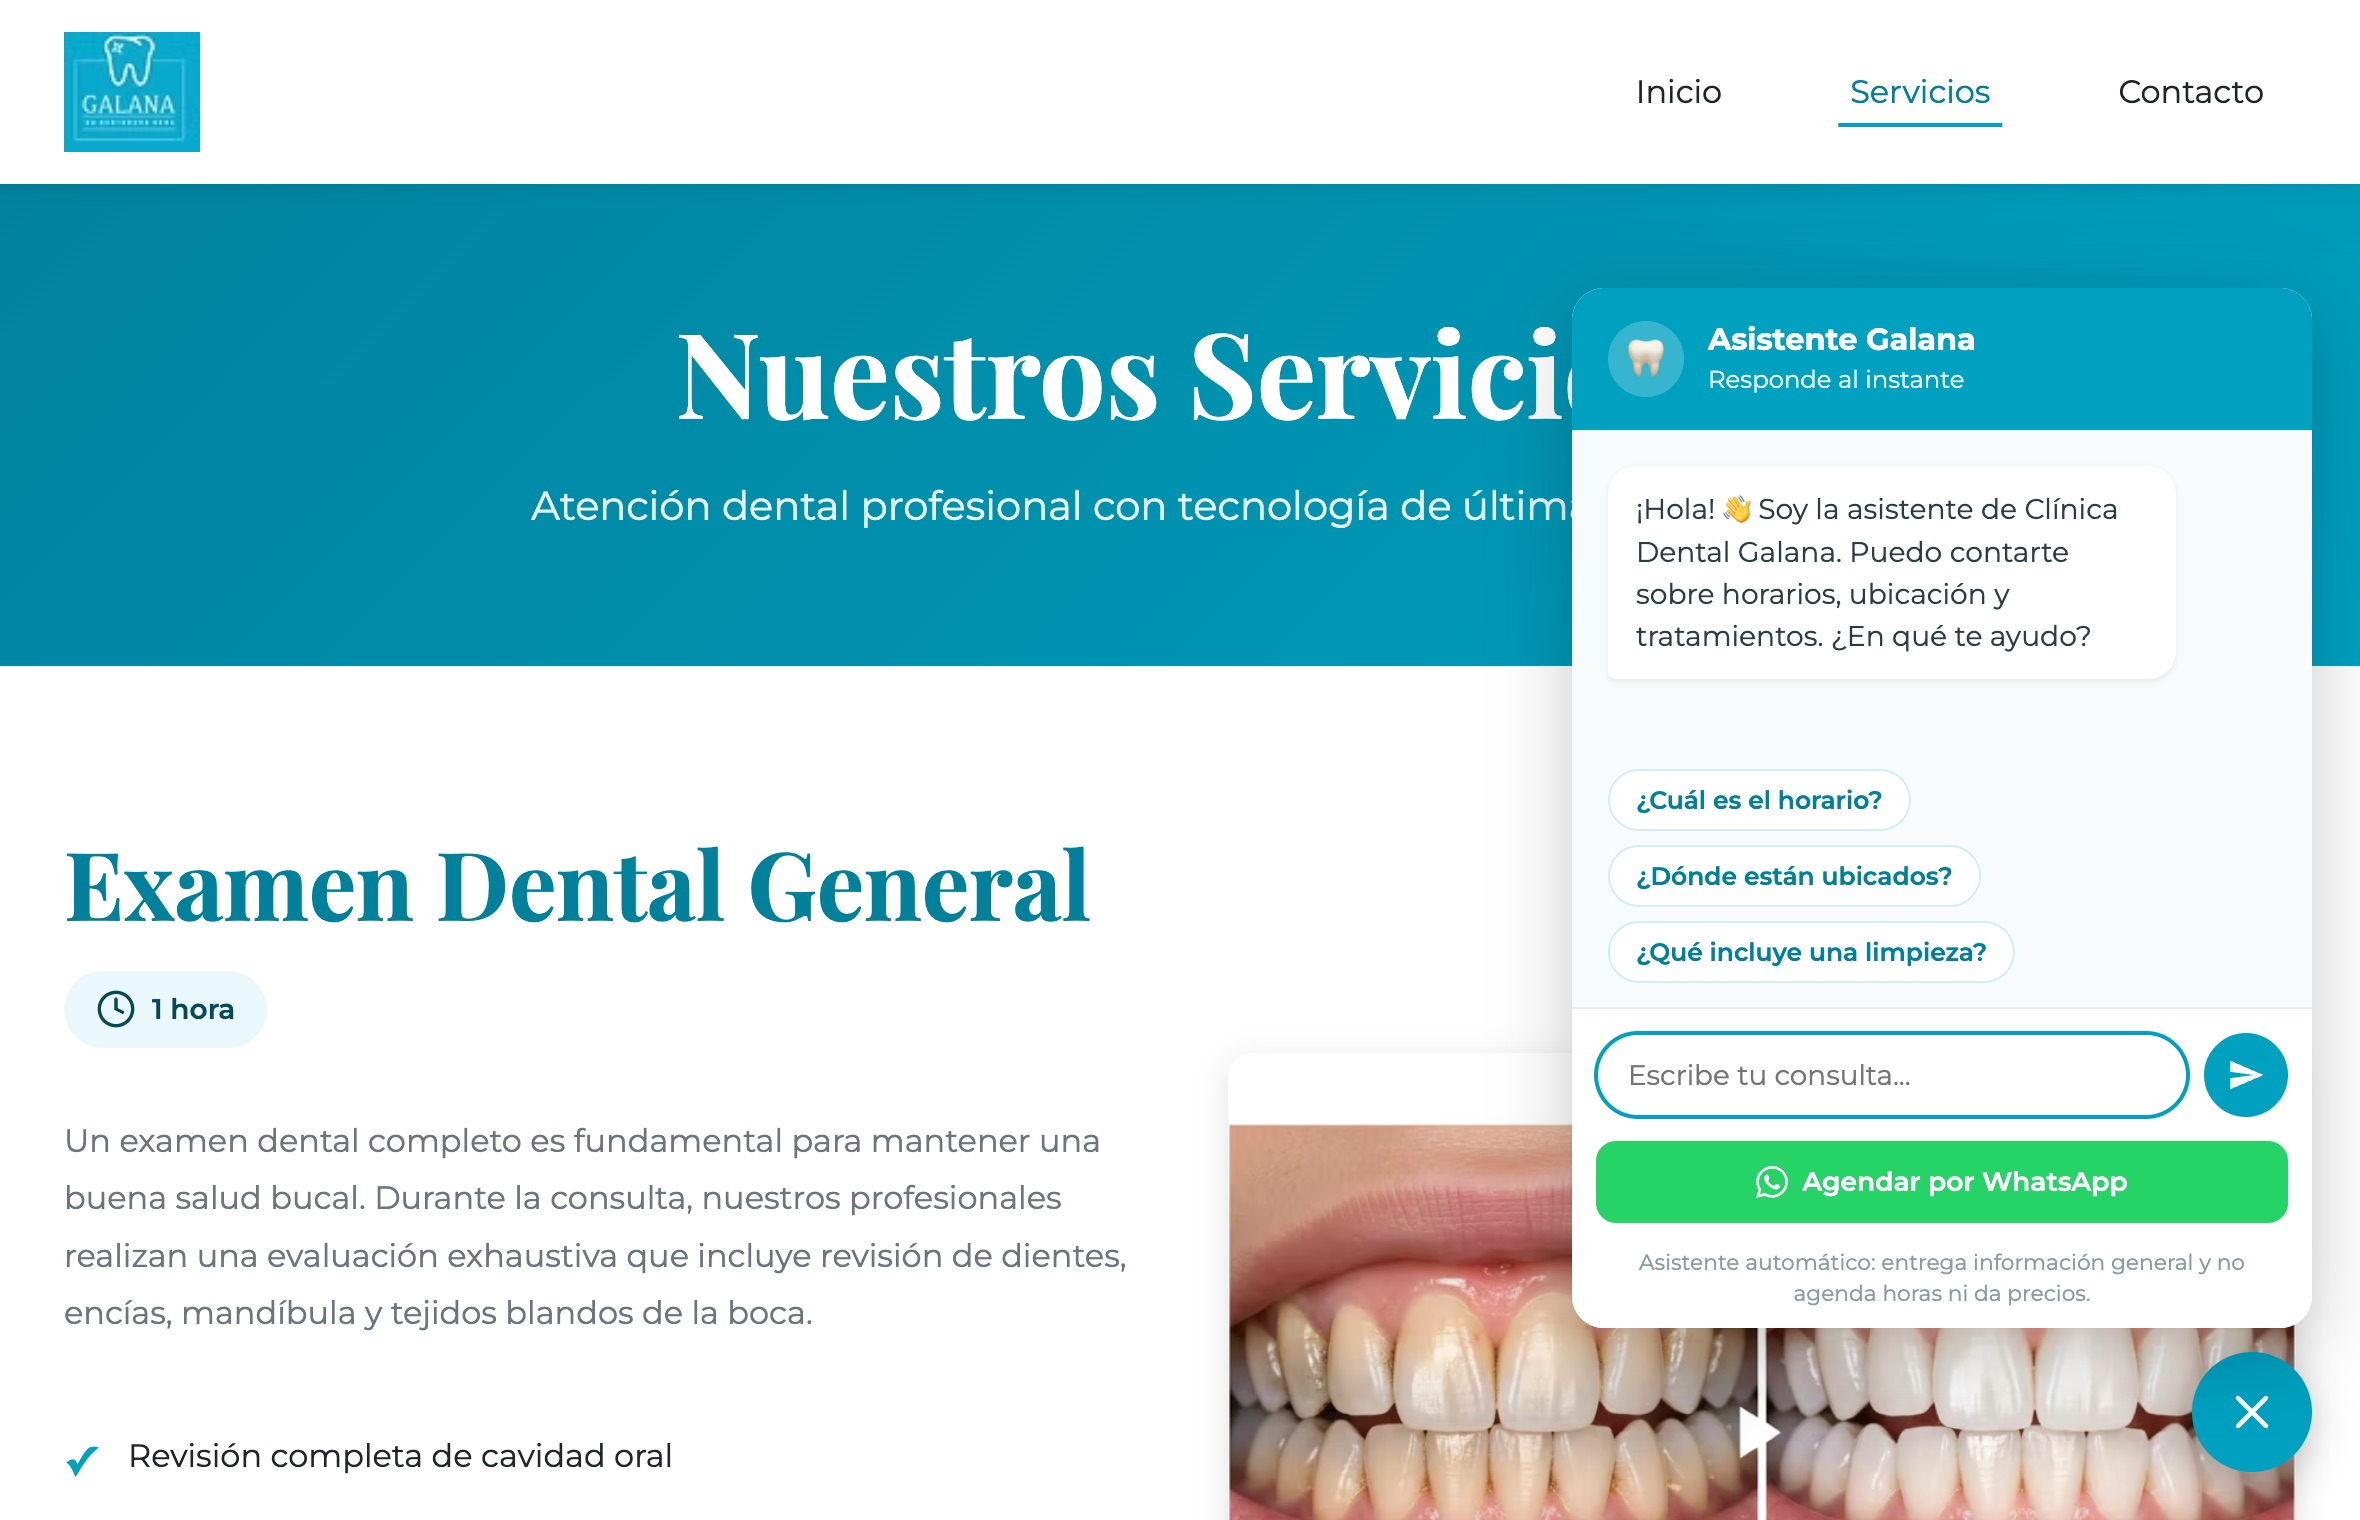
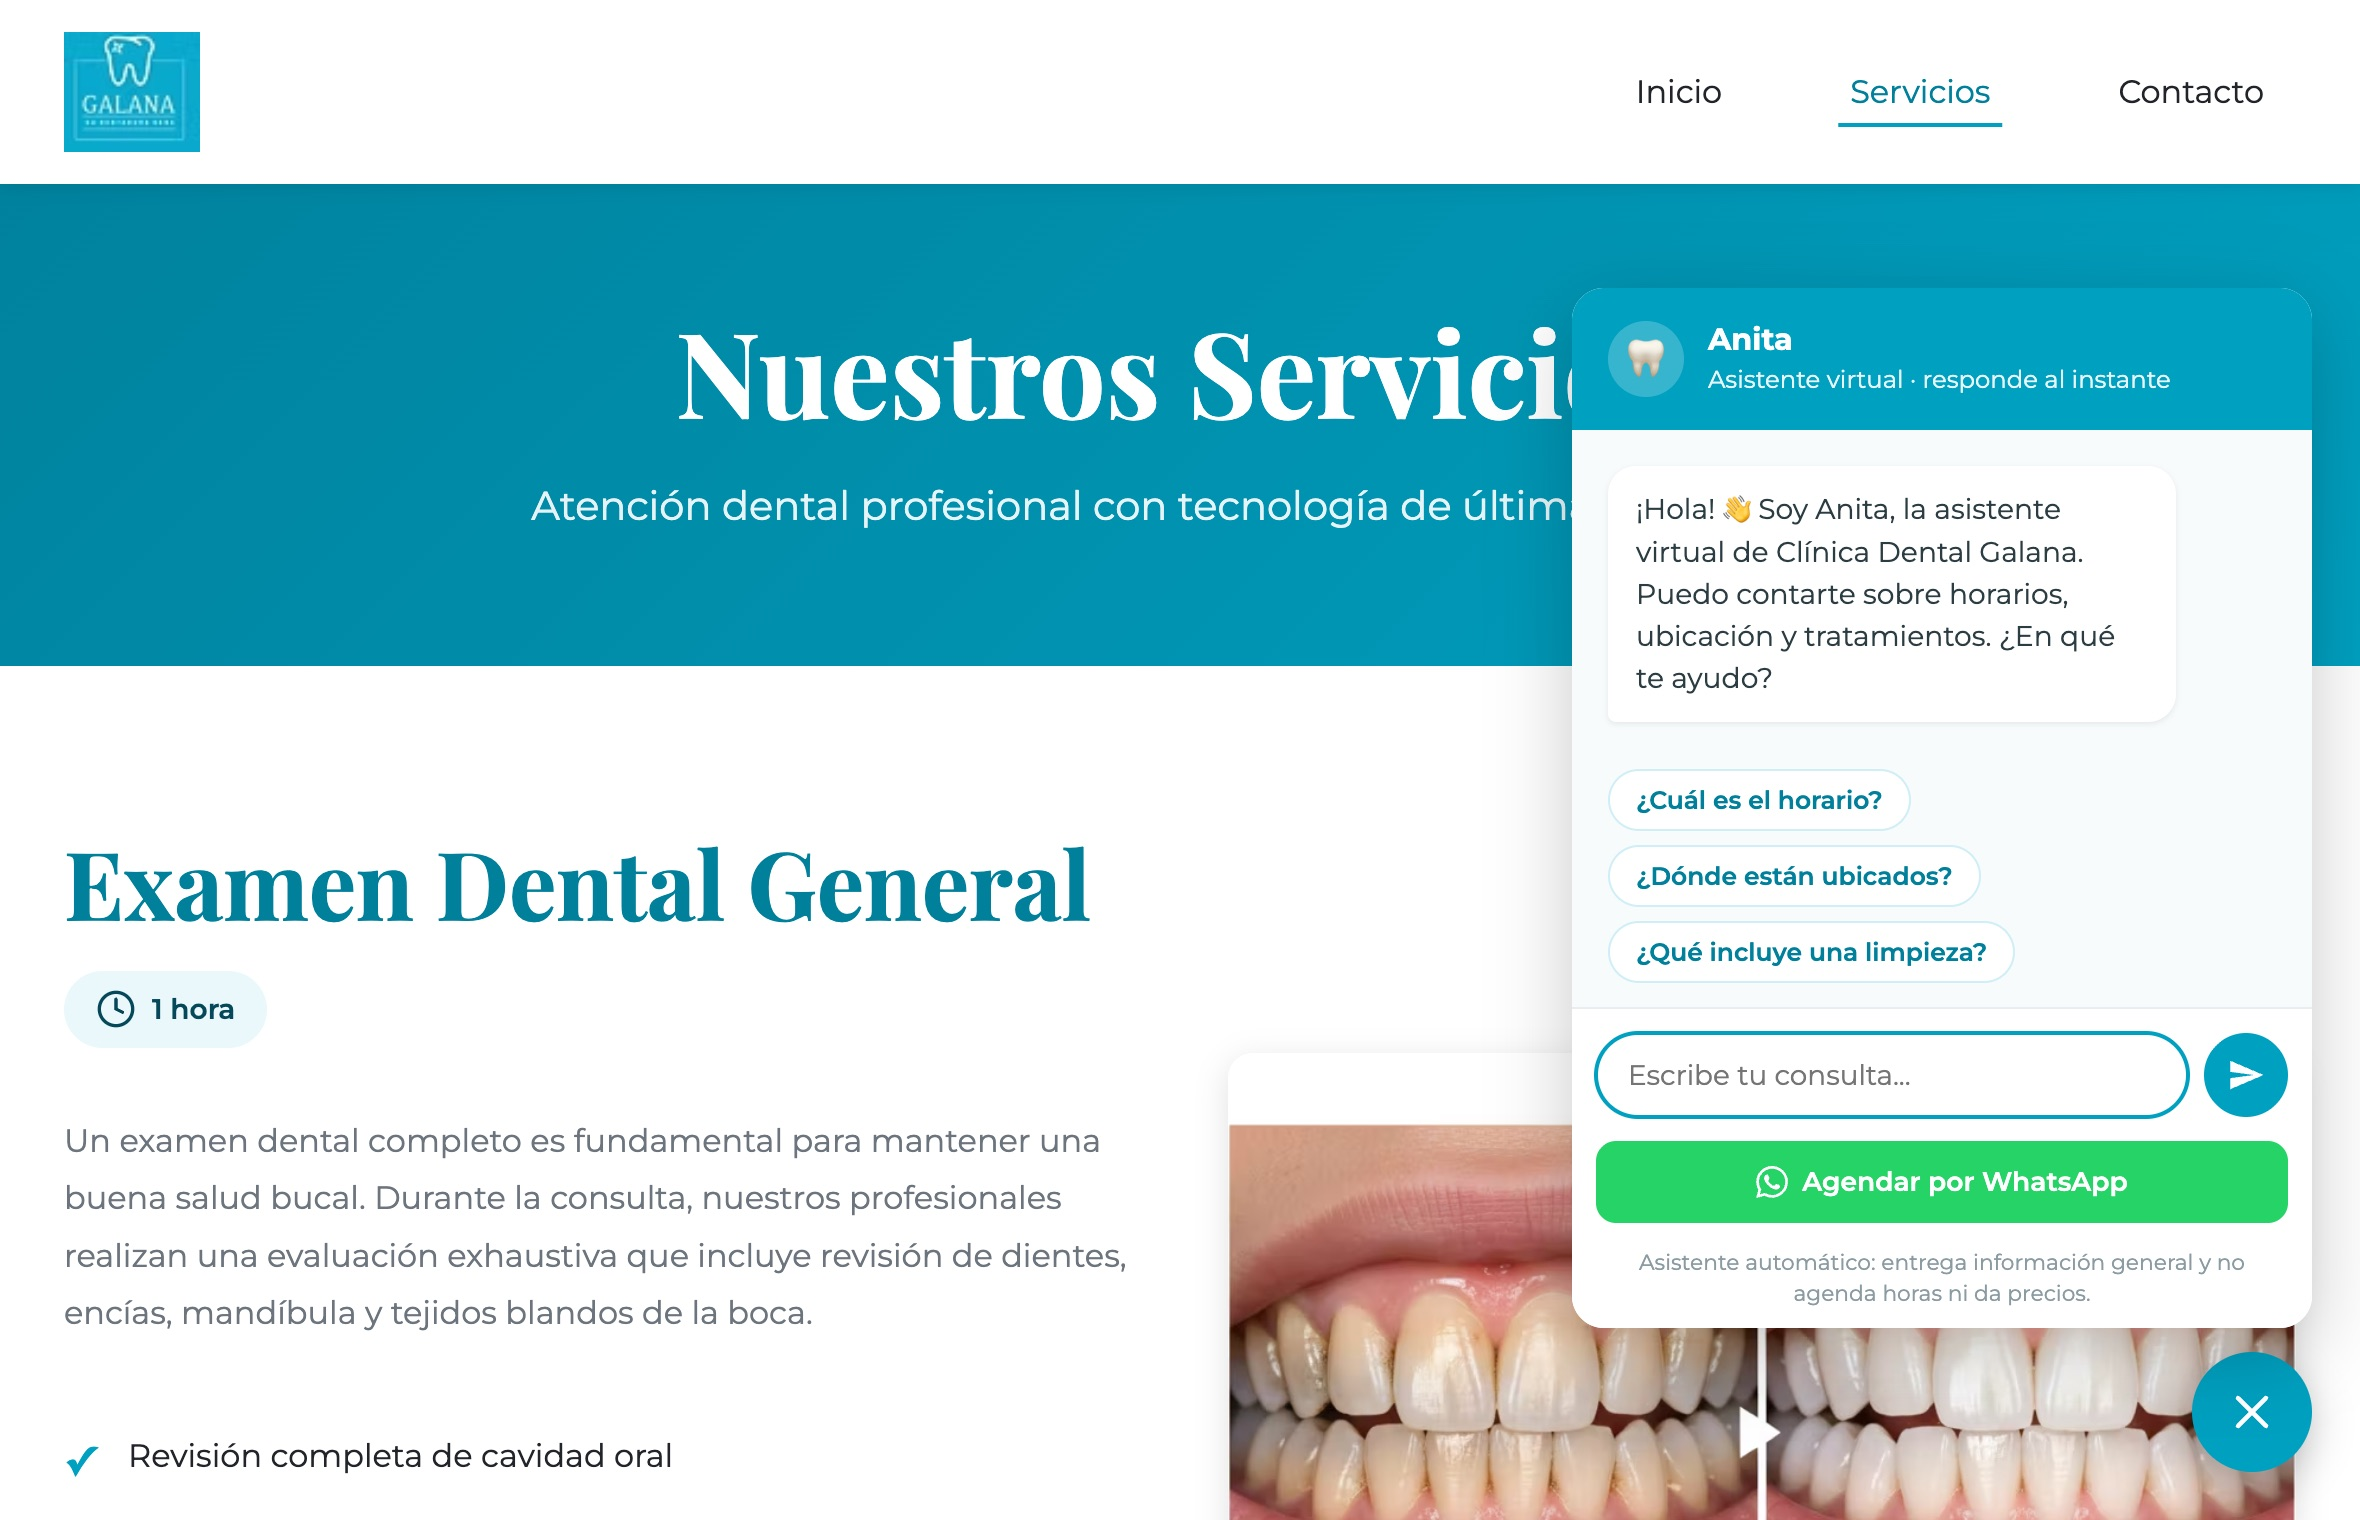
feat(chat): el asistente ahora se llama Anita
- Nombre "Anita" en el system prompt, el saludo, el encabezado del
  widget y las etiquetas de accesibilidad. Si le preguntan si es real,
  aclara con naturalidad que es la asistente virtual de la clínica.
- Se relaja la regla de tono: un chilenismo suave ("cachai", "al tiro")
  está bien; lo que se sigue bloqueando es el exceso y las muletillas
  argentinas. La prohibición de precios y el derivar a WhatsApp no
  cambian.
- Verificado contra el modelo real: se presenta como Anita, aclara que
  no es persona real y sigue sin dar precios ni rangos.
- Captura del asistente actualizada.

Changed region(s): [[0.6805, 0.3092, 0.897, 0.4638], [0.7114, 0.2164, 0.928, 0.2783]]

diff --git a/js/chat-widget.js b/js/chat-widget.js
@@ -13,7 +13,7 @@
 
     var WHATSAPP = 'https://wa.me/56956789735?text=Hola, me gustaría agendar una hora';
 
-    var SALUDO = '¡Hola! 👋 Soy la asistente de Clínica Dental Galana. ' +
+    var SALUDO = '¡Hola! 👋 Soy Anita, la asistente virtual de Clínica Dental Galana. ' +
         'Puedo contarte sobre horarios, ubicación y tratamientos. ¿En qué te ayudo?';
 
     var SUGERENCIAS = [
@@ -210,7 +210,7 @@
 
         toggle = crear('button', 'ga-chat-toggle');
         toggle.type = 'button';
-        toggle.setAttribute('aria-label', 'Abrir el asistente virtual');
+        toggle.setAttribute('aria-label', 'Abrir el chat con Anita, la asistente virtual');
         toggle.setAttribute('aria-expanded', 'false');
         toggle.innerHTML =
             '<svg class="ga-ico-abrir" viewBox="0 0 24 24" aria-hidden="true">' +
@@ -220,14 +220,14 @@
 
         panel = crear('div', 'ga-chat-panel');
         panel.setAttribute('role', 'dialog');
-        panel.setAttribute('aria-label', 'Asistente virtual de Clínica Dental Galana');
+        panel.setAttribute('aria-label', 'Anita, asistente virtual de Clínica Dental Galana');
 
         var head = crear('div', 'ga-chat-head');
         var avatar = crear('div', 'ga-chat-head-avatar', '🦷');
         avatar.setAttribute('aria-hidden', 'true');
         var titulo = crear('div');
-        titulo.appendChild(crear('strong', null, 'Asistente Galana'));
-        titulo.appendChild(crear('span', null, 'Responde al instante'));
+        titulo.appendChild(crear('strong', null, 'Anita'));
+        titulo.appendChild(crear('span', null, 'Asistente virtual · responde al instante'));
         head.appendChild(avatar);
         head.appendChild(titulo);
 
@@ -292,7 +292,7 @@
             var abierto = panel.classList.toggle('abierto');
             toggle.classList.toggle('abierto', abierto);
             toggle.setAttribute('aria-expanded', String(abierto));
-            toggle.setAttribute('aria-label', abierto ? 'Cerrar el asistente virtual' : 'Abrir el asistente virtual');
+            toggle.setAttribute('aria-label', abierto ? 'Cerrar el chat' : 'Abrir el chat con Anita, la asistente virtual');
             if (abierto) { input.focus(); irAbajo(); }
         });
 
